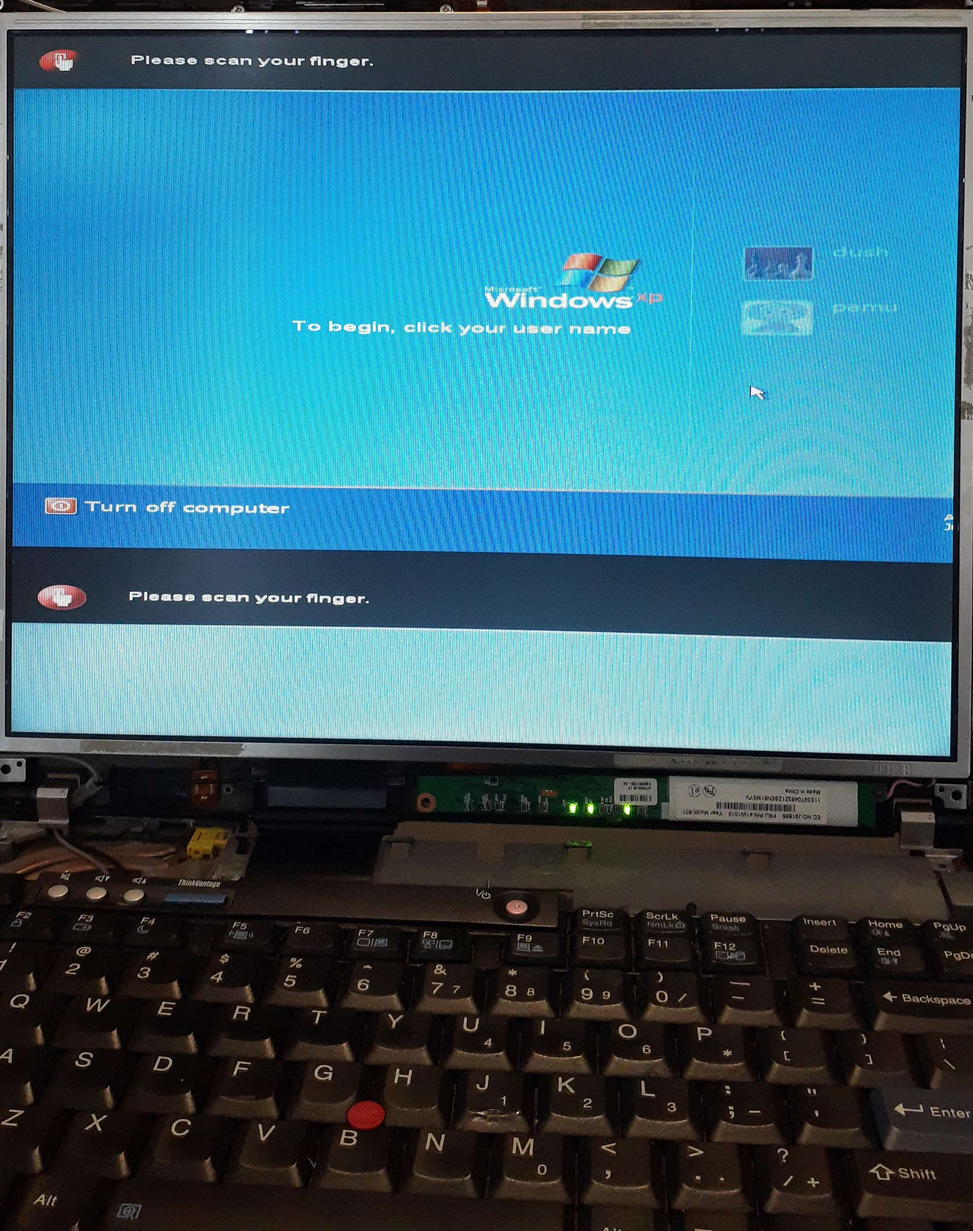
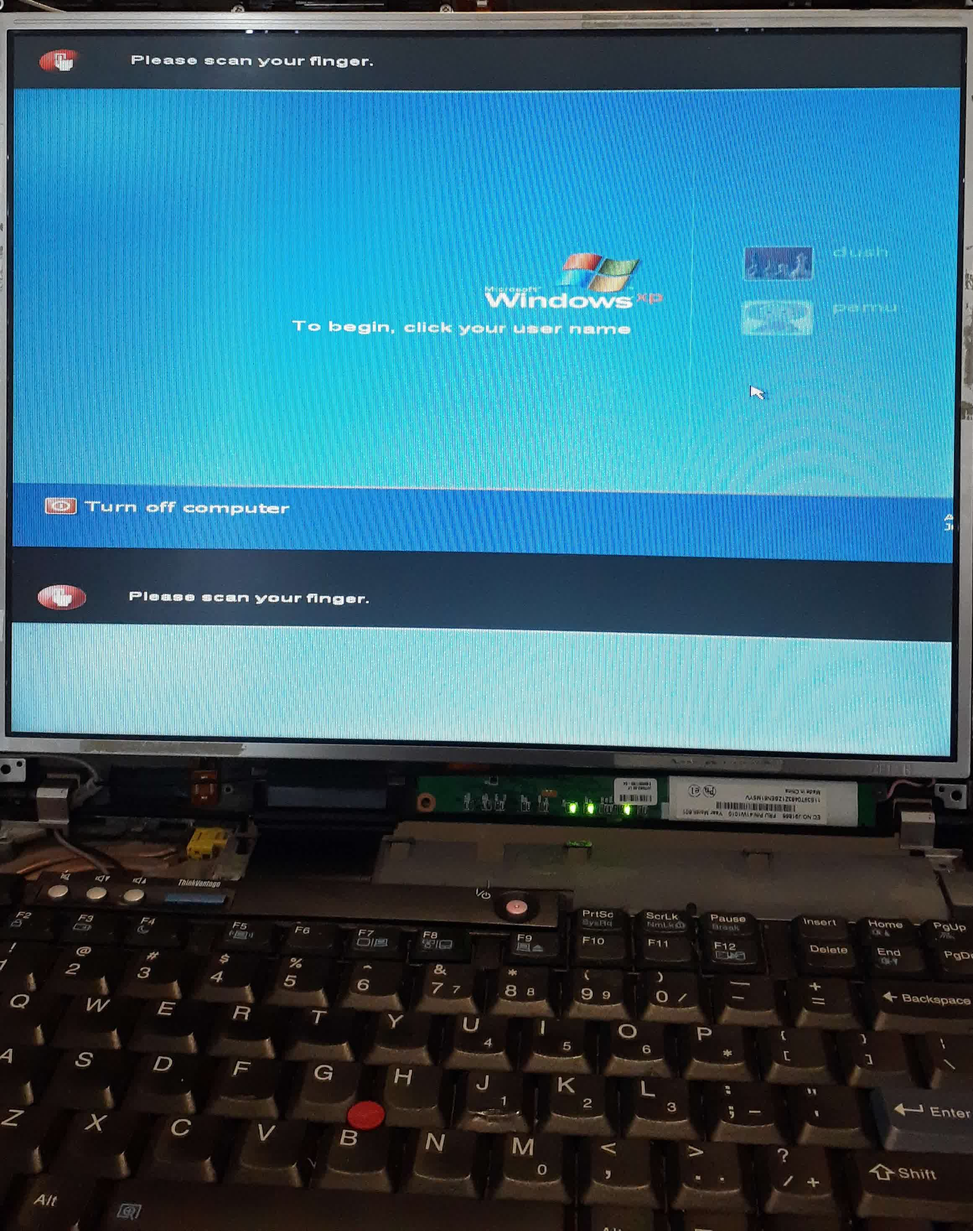
finished T60 part 1

diff --git a/t60/part1.html b/t60/part1.html
@@ -7,58 +7,96 @@
 <title>ThinkPad T60: Part 1 - Usan Siriwardana</title>
 
 <link rel="stylesheet" href="/style.css">
+<body>
+        <article>
+            	<header>
+                	<h1>Usan Siriwardana's Projects</h1>
+            		<aside>
+                		<a href="/">Home</a>
+                		<a href="/list.html">All Projects</a>
+                	</aside>
+            	</header>
+            	<aside>Sorry for the lack of pictures, I didn't think I wanted to share this project when I first started.</aside>
+            	<h2>Introduction</h2>
+            	<p>The ThinkPad T60 was my first computer.</p>
+            	<p>Actually that's a lie. My first computer was the ThinkPad T43p. The T60 was my sister's first computer.</p>
+            	<p>But they're both mine now</p>
 
-<article>
-    	<header>
-        	<h1>Usan Siriwardana's Projects</h1>
-    		<aside>
-        		<a href="/">Home</a>
-        		<a href="/list.html">All Projects</a>
-        	</aside>
-    	</header>
-    	<aside>Sorry for the lack of pictures, I didn't think I wanted to share this project when I first started.</aside>
-    	<h2>Introduction</h2>
-    	<p>The ThinkPad T60 was my first computer.</p>
-    	<p>Actually that's a lie. My first computer was the ThinkPad T43p. The T60 was my sister's first computer.</p>
-    	<p>But they're both mine now</p>
+            	<h2>Why?</h2>
+            	<p>As with most of my projects, the question is not why, but rather why not?</p>
 
-    	<h2>Why?</h2>
-    	<p>As with most of my projects, the question is not why, but rather why not?</p>
+            	<h2>Dead on Arrival</h2>
+            	<p>I dug both the T60 and T43p out of the basement, plugged them in, and tried turning them on.</p>
+            	<p>Nothing.</p>
+            	<p>Well not quite nothing, the T60's screen lit up for a brief moment, but the T43p showed no signs of life.</P>
+        	<p>Time for troubleshooting.</p>
 
-    	<h2>Dead on Arrival</h2>
-    	<p>I dug both the T60 and T43p out of the basement, plugged them in, and tried turning them on.</p>
-    	<p>Nothing.</p>
-    	<p>Well not quite nothing, the T60's screen lit up for a brief moment, but the T43p showed no signs of life.</P>
-	<p>Time for troubleshooting.</p>
+        	<h2>Spark in the Dark</h2>
+            	<p>Let me tell you how I came to waste approximately 2 months of my time. Since the T60 showed some signs of life, not to mention had the better specs, I decided to focus my efforts on it and leave the T43p for now.</p>
+            	<p>It turns out, the T60 was completely functional, except for the screen. Plugging the laptop into a VGA display showed that everything was working perfectly. I could even boot up a bit of minecraft! But a laptop isn't much good without a screen.</p>
+            	<p>If I looked closely enough, I noticed that the screen was actually working, just insanely dim. With the aid of  my phone flashlight, I might be able to make out 2 cm<sup>2</sup> of the screen, just barely.</p>
+            	<p>Interestingly, every time I tried booting the T60, the screen would flash for a moment during the startup, showing the screen properly displaying the boot screen. Clearly, something was wrong with the backlight, I just had to figure out what.</p>
+            	<p>It turns out that these old ThinkPads used CCFLs as backlights for the LCDs. Yes! Fluorecent backlights for LCDs! I hadn't properly realized how old these things were, from a time before LEDs were the default for LCD backlights. Maybe I'm just too young, but putting CCFLs in a laptop sounds crazy, no?</p>
+            	<p>Of course there's a few big reasons why we don't use Fluorecent backlights for our laptops anymore. They're fragile, power hungry, and need fancy balast circuits to work. But until we figured out LEDs, they were our best option.</p>
 
-	<h2>Spark in the Dark</h2>
-    	<p>Let me tell you how I came to waste approximately 2 months of my time. Since the T60 showed some signs of life, not to mention had the better specs, I decided to focus my efforts on it and leave the T43p for now.</p>
-    	<p>It turns out, the T60 was completely functional, except for the screen. Plugging the laptop into a VGA display showed that everything was working perfectly. I could even boot up a bit of minecraft! But a laptop isn't much good without a screen.</p>
-    	<p>If I looked closely enough, I noticed that the screen was actually working, just insanely dim. With the aid of  my phone flashlight, I might be able to make out 2 cm<sup>2</sup> of the screen, just barely.</p>
-    	<p>Interestingly, every time I tried booting the T60, the screen would flash for a moment during the startup, showing the screen properly displaying the boot screen. Clearly, something was wrong with the backlight, I just had to figure out what.</p>
-    	<p>It turns out that these old ThinkPads used CCFLs as backlights for the LCDs. Yes! Fluorecent backlights for LCDs! I hadn't properly realized how old these things were, from a time before LEDs were the default for LCD backlights. Maybe I'm just too young, but putting CCFLs in a laptop sounds crazy, no?</p>
-    	<p>Of course there's a few big reasons why we don't use Fluorecent backlights for our laptops anymore. They're fragile, power hungry, and need fancy balast circuits to work. But until we figured out LEDs, they were our best option.</p>
+            	<h3>Slightly Unhelpful Forum Adventure</h3>
+            	<p>Forums are crazy useful. There's so much information and knowlage to be found on small forums. However, sometimes, it leads you down the wrong path.</p>
+            	<p>That pesky flash. Every time I booted up the T60, the backlight would work perfectly, if only for a moment. Some digging on the <a href="https://forum.thinkpads.com">ThinkPad Forums</a> (this is no knock on them, lots of amazing and genuinely useful info there), and I came to the conclusion that my inverter was bad.</p>
+            	<p>~$10 and a month later, the replacement inverter I bought on eBay arrived. I opened the ThinkPad, popped it in, and nothing. Now it wouldn't even flash for a moment when I booted it up. I tried swapping back to the old inverter, but still no flash.</p>
+            	<p>Shit.</p>
 
-    	<h3>Slightly Unhelpful Forum Adventure</h3>
-    	<p>Forums are crazy useful. There's so much information and knowlage to be found on small forums. However, sometimes, it leads you down the wrong path.</p>
-    	<p>That pesky flash. Every time I booted up the T60, the backlight would work perfectly, if only for a moment. Some digging on the <a href="https://forum.thinkpads.com">ThinkPad Forums</a> (this is no knock on them, lots of amazing and genuinely useful info there), and I came to the conclusion that my inverter was bad.</p>
-    	<p>~$10 and a month later, the replacement inverter I bought on eBay arrived. I opened the ThinkPad, popped it in, and nothing. Now it wouldn't even flash for a moment when I booted it up. I tried swapping back to the old inverter, but still no flash.</p>
-    	<p>Shit.</p>
+            	<h3>Slightly Helpful Forum Adventure</h3>
+            	<p>Some more digging on the <a href="https://forum.thinkpads.com">ThinkPad Forums</a> and I found a different answer, but sadly this one meant a more involved fix. Remember how I said that CCFLs are fragile? Yeah, that.</p>
+            	<p>Likely I would need to find a replacement screen, which at the time could cost over $150, which was quite a bit more than I was willing to spend on this project. But I kept thinking, maybe I can salvage a display from somewhere else?</p>
 
-    	<h3>Slightly Helpful Forum Adventure</h3>
-    	<p>Some more digging on the <a href="https://forum.thinkpads.com">ThinkPad Forums</a> and I found a different answer, but sadly this one meant a more involved fix. Remember how I said that CCFLs are fragile? Yeah, that.</p>
-    	<p>Likely I would need to find a replacement screen, which at the time could cost over $150, which was quite a bit more than I was willing to spend on this project. But I kept thinking, maybe I can salvage a display from somewhere else?</p>
+            	<h2>Keep Yourself Alive</h2>
+        	<p>Both the T60 and T43p I had were the 14 inch, 4:3 aspect ratio models, meaning their screens were exactly the same size. They even used the same interface for recieving the image data from the laptop. The mounting holes even line up perfectly. Maybe I could just swap the T43p display in, and it will just work?</p>
+        	<p>They both used LVDS to send the image data to the LCD, but they weren't exactly the same. See, the laptop needs to know some information about the display in order to drive them correctly. If it doesn't know the resolution and timing, among other things, it might not be able to display correctly.</p>
+        	<p>On the T43p, they used some additional pins on the motherboard side, and different cables would connect or disconnect certain pairs of pins. Some configurations meant you were using a high resolution display, and other configurations meant a low resolution one.</p>
+        	<p>Pretty simple but worked fine, although it had a few drawbacks. The one I hear a bunch is that it required IT departments and the like to carry several variants of the cable and pick the right one if they needed to replace an LCD with one of a different resolution.</p>
+                <p>I've also heard that the real reason this was changed was to prevent the use of aftermarket, non-genuine LCD panels, but who knows? Not me. <s>We never lost control</s></p>
+                <p>For whatever reason you want to believe, when Lenovo took over the ThinkPad brand and made the T60, they added an EDID (Extended Display Identification Data) chip to the LCD panel. It's basically just a small I<sup>2</sup>C EEPROM on the LCD that the laptop can read and write to.</p>
+                <p>They use the EDID chip to store those parameters like the resolution and timing. Oh and also the manufacturer. Because of course.</p>
+        	<p>Now, some people on the forum were saying that T43 models produced near the end of their run sometimes had these EDID chips on them, and that the chance of this was even higher with the T43p. Naturally, I just tried swapping the panel from the T43p into the T60, and it worked!</p>
+        	<p>Kinda.</p>
 
-    	<h2>Keep Yourself Alive</h2>
-	<p>Both the T60 and T43p I had were the 14 inch, 4:3 aspect ratio models, meaning their screens were exactly the same size. They even used the same interface for recieving the image data from the laptop. The mounting holes even line up perfectly. Maybe I could just swap the T43p display in, and it will just work?</p>
-	<p>They both used LVDS to send the image data to the LCD, but they weren't exactly the same. See, the laptop needs to know some information about the display in order to drive them correctly. If it doesn't know the resolution and timing, among other things, it might not be able to display correctly.</p>
-	<p>On the T43p, they used some additional pins on the motherboard side, and different cables would connect or disconnect certain pairs of pins. Some configurations meant you were using a high resolution display, and other configurations meant a low resolution one.</p>
-	<p>Pretty simple but worked fine, although it had a few drawbacks. The one I hear a bunch is that it required IT departments and the like to carry several variants of the cable and pick the right one if they needed to replace an LCD with one of a different resolution.</p>
-        <p>I've also heard that the real reason this was changed was to prevent the use of aftermarket, non-genuine LCD panels, but who knows? Not me. <s>We never lost control</s></p>
-        <p>For whatever reason you want to believe, when Lenovo took over the ThinkPad brand and made the T60, they added an EDID (Extended Display Identification Data) chip to the LCD panel. It's basically just a small I<sup>2</sup>C EEPROM on the LCD that the laptop can read and write to.</p>
-        <p>They use the EDID chip to store those parameters like the resolution and timing. Oh and also the manufacturer. Because of course.</p>
-	<p>Now, some people on the forum were saying that T43 models produced near the end of their run sometimes had these EDID chips on them, and that the chance of this was even higher with the T43p. Naturally, I just tried swapping the panel from the T43p into the T60, and it worked!</p>
-	<p>Kinda.</p>
+        	<img src="1.jpg" alt="The ThinkPad Screen apears garbled, with the right side missing, and the top duplicated to the bottom." style="width:100%" loading="lazy">
 
-	<img src="1.jpg" alt="The ThinkPad Screen apears garbled, with the right side missing, and the top duplicated to the bottom." style="width:100%" loading="lazy">
-</article>
+        	<p>If it isn't clear, the screen does display an image, but it's slightly off. The right side seems to be cut off, and some of the top appears to be duplicated on the bottom. I got unlucky, the T43p screen didn't have an EDID chip, and the laptop was using it's default settings.</p>
+        	<p>But we don't give up here. Sure, the T43p panel doesn't have an EDID chip on it, but now I just to happen to have a dead panel to harvest an EDID chip from.</p>
+        	<p>After checking IC serial numbers, I desoldered the EDID chip from the T60 display.</p>
+
+        	<img src="2.jpg" alt="The EDID EEPROM chip on a circuit board next to the PCB footprint for it. A toothbrush is also in frame." style="width:100%" loading="lazy">
+
+		<p>Toothbrush for scale. (Why a toothbrush? Because a banana wouldn't fit in the shot.)</p>
+		<p>The T43p display even had the footprint for the EEPROM, it just wasn't populated, so adding the salvaged chip was a simple task, even using a cheap $10 soldering iron.</p>
+		<p>With the new EDID chip installed, I tried powering it on and...</p>
+		<p>No change. Or so I thought...</p>
+
+        	<img src="3.jpg" alt="The ThinkPad screen is garbled exactly like before, but shows a terminal in Linux Mint. The terminal shows the i2cdump command displaying a series of hexadecimal bytes." style="width:100%" loading="lazy">
+
+        	<p>The display worked enough to let me boot Linux (Mint) from a USB drive, and run some diagnostics. I tried reading the data from the EEPROM using the i2cdump command, and it actually worked! The laptop was able to correctly read the EDID parameters from the EEPROM. So why did the display still look exactly the same?</p>
+        	<p>My best guess is that the old T60 display was a low resolution one, and that also, if the laptop can't read the EDID chip, it defaults to the parameters for a low resolution display. So while the laptop can read the data, it doesn't actually do anything different in this case. But since the display from the T43p is a high resolution display, the parameters are wrong now.</p>
+        	<p>Thankfully, the EE in EEPROM stands for Electronically Errassable. and thanks to the excelent <a href="https://github.com/bsdhw/EDID">EDID Repository</a>, I knew what bytes I needed to Program to the Read Only Memory</p>
+        	<p>For whatever reason the <a href="https://github.com/bulletmark/edid-rw">edid-rw<a> utility that people on the forums seemed to be using didn't want to run on my machine, but I found that <a href="https://github.com/linuxhw/write-edid">write-edid<a>, a simple shell script that writes the data one byte at a time using the i2cset worked just fine.</p>
+
+        	<p>With the new EDID parameters written, I tried rebooting the T60, and it worked perfectly! I also finally put the machine back together.</p>
+
+        	<img src="4.jpg" alt="The ThinkPad screen shows the Linux Mint desktop, with no issues." style="width:100%" loading="lazy">
+
+        	<p>It even worked booting the old Windows XP install from the hard drive!</p>
+
+        	<img src="5.jpg" alt="The ThinkPad screen shows the Windows XP loading screen, with no issues." style="width:100%" loading="lazy">
+
+        	<h2>Finishing Touches</h2>
+
+        	<p>The T60 is technically functional now, but it's not perfect. Some of the plastic has cracked, but with a little super glue, and buying a replacement keyboard bezel from eBay for $15, it's good enough for now.</p>
+        	<p>The Project is done! For now at least.</p>
+
+        	<h2>What Happens Now?</h2>
+
+        	<p>Now? <s>Lets go practice medicine</s> Well, one of the big reasons I wanted to revive this old ThinkPad is because (at the time) it was one of very few laptops supported by the Cannoeboot project. Since it doesn't have the Intel ME on it, if I combined Cannoeboot with an 100% Free Software OS, I could have a machine with about as much of the software involved being libre as possible.</p>
+        	<p>I've already gotten my hands on some upgrades for this thing as well, so you can expect a part 2 at some point.</p>
+
+        </article>
+</body>

diff --git a/list.html b/list.html
@@ -7,19 +7,20 @@
 <title>All Projects - Usan Siriwardana</title>
 
 <link rel="stylesheet" href="/style.css">
-
-<article>
-    	<header>
-        	<h1>Usan Siriwardana's Projects</h1>
-    		<aside>
-        		<a href="/">Home</a>
-        		<a href="/list.html">All Projects</a>
-        	</aside>
-    	</header>
-	<h2>Computer-Related Projects</h2>
-	<aside>Yes I know most of my projects involve a computer somewhere, I mean projects that are really about computers</aside>
-	<ul>
-    		<li><a href="/t60/">ThinkPad T60</a></li>
-    		<li><a>Laptop RTX 3060 12GB (Eventually)</a></li>
-	</ul>
-</article>
+<body>
+        <article>
+            	<header>
+                	<h1>Usan Siriwardana's Projects</h1>
+            		<aside>
+                		<a href="/">Home</a>
+                		<a href="/list.html">All Projects</a>
+                	</aside>
+            	</header>
+        	<h2>Computer-Related Projects</h2>
+        	<aside>Yes I know most of my projects involve a computer somewhere, I mean projects that are really about computers</aside>
+        	<ul>
+            		<li><a href="/t60/">ThinkPad T60</a></li>
+            		<li><a>Laptop RTX 3060 12GB (Eventually)</a></li>
+        	</ul>
+        </article>
+</body>

diff --git a/t60/index.html b/t60/index.html
@@ -7,19 +7,20 @@
 <title>ThinkPad T60 - Usan Siriwardana</title>
 
 <link rel="stylesheet" href="/style.css">
-
-<article>
-    	<header>
-        	<h1>Usan Siriwardana's Projects</h1>
-    		<aside>
-        		<a href="/">Home</a>
-        		<a href="/list.html">All Projects</a>
-        	</aside>
-    	</header>
-    	<h2>ThinkPad T60</h2>
-    	<p>Restoring/Upgrading/Modding my old Thinkpad</p>
-    	<ol>
-        	<li><a href="part1.html">Restoration & Revival</a></li>
-        	<li><a>Upgrades & Liberation (COMING SOON)</a></li>
-    	</ol>
-</article>
+<body>
+        <article>
+            	<header>
+                	<h1>Usan Siriwardana's Projects</h1>
+            		<aside>
+                		<a href="/">Home</a>
+                		<a href="/list.html">All Projects</a>
+                	</aside>
+            	</header>
+            	<h2>ThinkPad T60</h2>
+            	<p>Restoring/Upgrading/Modding my old Thinkpad</p>
+            	<ol>
+                	<li><a href="part1.html">Restoration & Revival</a></li>
+                	<li><a>Upgrades & Liberation (COMING SOON)</a></li>
+            	</ol>
+        </article>
+</body>

diff --git a/index.html b/index.html
@@ -7,15 +7,16 @@
 <title>Home - Usan Siriwardana</title>
 
 <link rel="stylesheet" href="/style.css">
-
-<article>
-    	<header>
-        	<h1>Usan Siriwardana's Projects</h1>
-    		<aside>
-        		<a href="/">Home</a>
-        		<a href="/list.html">All Projects</a>
-        	</aside>
-    	</header>
-    	<h2>About Me</h2>
-    	<p>I'm a huge nerd and I like building cool shit.</p>
-</article>
+<body>
+        <article>
+            	<header>
+                	<h1>Usan Siriwardana's Projects</h1>
+            		<aside>
+                		<a href="/">Home</a>
+                		<a href="/list.html">All Projects</a>
+                	</aside>
+            	</header>
+            	<h2>About Me</h2>
+            	<p>I'm a huge nerd and I like building cool shit.</p>
+        </article>
+</body>
